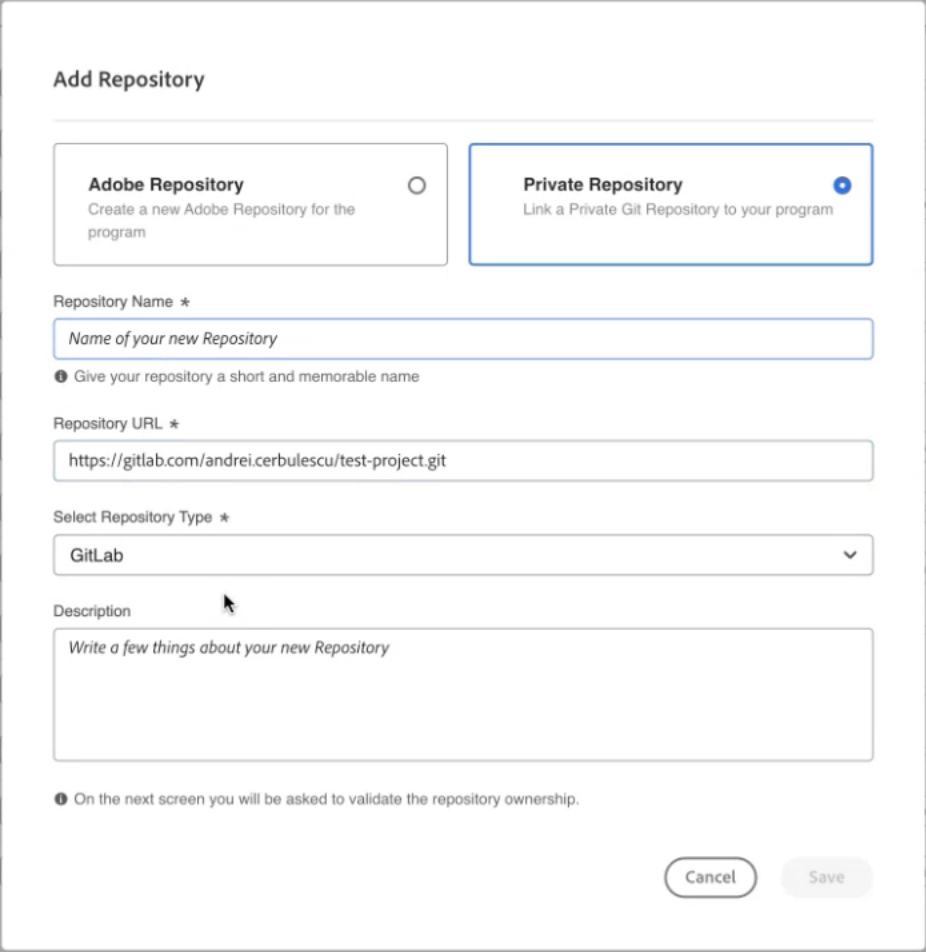
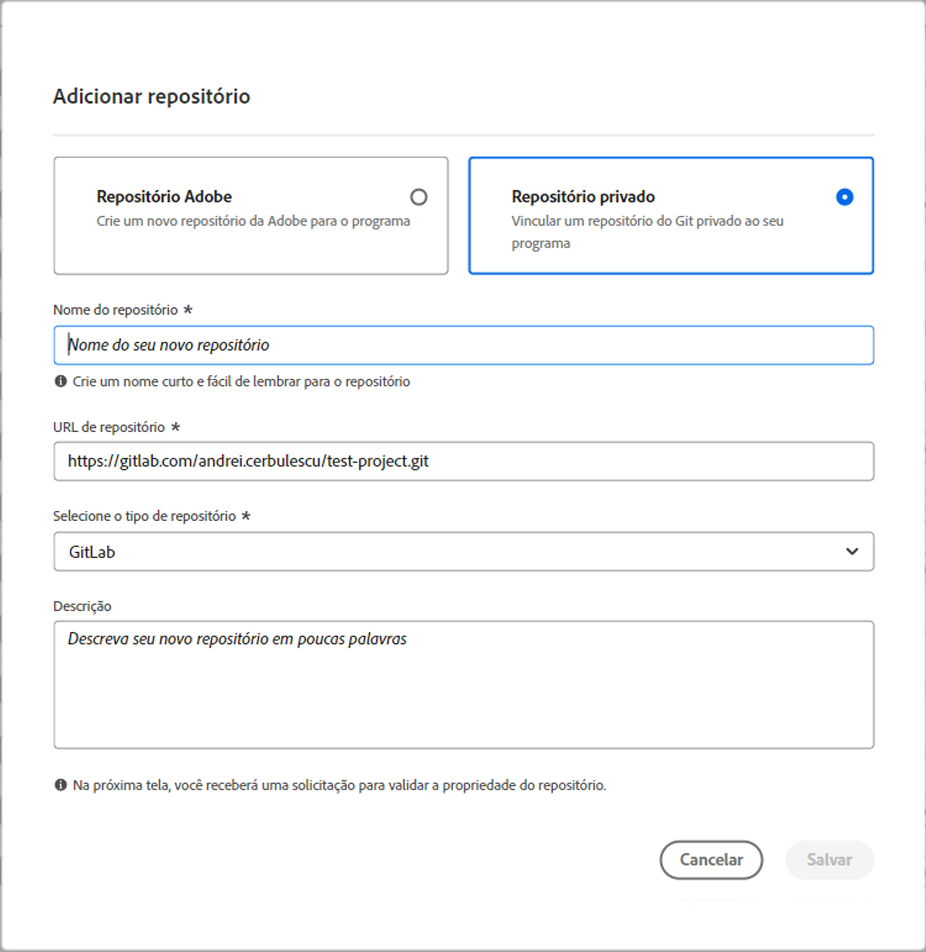
Updated by task 'AUTO_HANDOFF_1728480967227'  Changes for core/source commit https://git.corp.adobe.com/AdobeDocs/experience-manager-cloud-manager.en/commit/593ab468fb09900d061a4d820b8a1a33e2047237

diff --git a/help/managing-code/external-repositories.md b/help/managing-code/external-repositories.md
@@ -1,17 +1,17 @@
 ---
-title: Adicionar repositórios externos no Cloud Manager (adotante antecipado)
-description: Saiba como adicionar um repositório externo ao Cloud Manager. O Cloud Manager oferece suporte à integração com repositórios GitHub, GitLab e Bitbucket.
+title: Adicionar repositórios externos no Cloud Manager (usuários iniciais)
+description: Saiba como adicionar um repositório externo no Cloud Manager. O Cloud Manager oferece suporte à integração com repositórios GitHub, GitLab e Bitbucket.
 source-git-commit: 054c214be3c8c6e8a8bd4691b70ae2098263ef5b
-workflow-type: tm+mt
+workflow-type: ht
 source-wordcount: '740'
-ht-degree: 5%
+ht-degree: 100%
 
 ---
 
 
 # Adicionar repositórios externos no Cloud Manager {#external-repositories}
 
-Saiba como adicionar um repositório externo ao Cloud Manager. O Cloud Manager oferece suporte à integração com repositórios GitHub, GitLab e Bitbucket.
+Saiba como adicionar um repositório externo no Cloud Manager. O Cloud Manager oferece suporte à integração com repositórios GitHub, GitLab e Bitbucket.
 
 >[!NOTE]
 >
@@ -23,10 +23,10 @@ A configuração de um repositório externo no Cloud Manager consiste em três e
 
 1. [Adicionar um repositório externo](#add-external-repo) a um programa selecionado.
 1. Forneça um token de acesso ao repositório externo.
-1. Validar a propriedade do repositório externo.
+1. Valide a propriedade do repositório externo.
 
 
-## Adicionar um repositório externo {#add-ext-repo}
+## Adicione um repositório externo {#add-ext-repo}
 
 1. Faça logon no Cloud Manager, em [my.cloudmanager.adobe.com](https://my.cloudmanager.adobe.com/), e selecione a organização apropriada.
 
@@ -47,32 +47,32 @@ A configuração de um repositório externo no Cloud Manager consiste em três e
 
    | Texto | Descrição |
    | --- | --- |
-   | **Nome do Repositório** | Obrigatório. Um nome expressivo para o novo repositório. |
-   | **URL do repositório** | Obrigatório. O URL do repositório.<br><br> Se você estiver usando um repositório hospedado pelo GitHub, o caminho deverá terminar em `.git`.<br>Por exemplo, *`https://github.com/org-name/repo-name.git`* (o caminho da URL é apenas para fins ilustrativos).<br><br>Se você estiver usando um repositório externo, ele deverá usar o seguinte formato de caminho de URL:<br>`https://git-vendor-name.com/org-name/repo-name.git`<br> ou<br>`https://self-hosted-domain/org-name/repo-name.git`<br>E corresponder ao seu fornecedor de Git. |
-   | **Selecionar tipo de repositório** | Obrigatório. Selecione o tipo de repositório que você está usando: **GitHub**, **GitLab** ou **BitBucket**. Se o caminho do URL do repositório acima incluir o nome do fornecedor do Git, como GitLab ou Bitbucket, o tipo de repositório já estará pré-selecionado para você. |
+   | **Nome do repositório** | Obrigatório. Um nome expressivo para o novo repositório. |
+   | **URL do repositório** | Obrigatório. O URL do repositório.<br><br> Se você estiver usando um repositório hospedado pelo GitHub, o caminho deverá terminar em `.git`.<br>Por exemplo, *`https://github.com/org-name/repo-name.git`* (o caminho do URL é apenas para fins ilustrativos).<br><br>Se você estiver usando um repositório externo, ele deverá usar o seguinte formato de caminho de URL:<br>`https://git-vendor-name.com/org-name/repo-name.git`<br> ou<br>`https://self-hosted-domain/org-name/repo-name.git`<br>e corresponder ao seu fornecedor de Git. |
+   | **Selecionar tipo de repositório** | Obrigatório. Selecione o tipo de repositório que você está usando: **GitHub**, **GitLab** ou **BitBucket**. Se o caminho do URL do repositório acima incluir o nome do fornecedor do Git, como GitLab ou Bitbucket, o tipo de repositório já estará pré-selecionado. |
    | **Descrição** | Opcional. Uma descrição detalhada do repositório. |
 
-1. Selecione **Salvar** para adicionar o repositório.
+1. Clique em **Salvar** para adicionar o repositório.
 
-1. Na caixa de diálogo **Validação de Propriedade de Repositório Privado**, forneça um token de acesso para validar a propriedade do repositório externo para que você possa acessá-lo.
+1. Na caixa de diálogo **Validação de propriedade de repositório privado**, forneça um token de acesso para validar a propriedade do repositório externo para que você possa acessá-lo.
 
-   ![Selecionando um token de acesso existente para um repositório](/help/managing-code/assets/repositories-exisiting-access-token.png)
-   *Selecionando um token de acesso existente para um repositório BitBucket.*
+   ![Seleção de um token de acesso para um repositório](/help/managing-code/assets/repositories-exisiting-access-token.png)
+   *Seleção de um token de acesso para um repositório BitBucket.*
 
    | Tipo de token | Descrição |
    | --- | --- |
-   | **Usar token de acesso existente** | Se você já tiver fornecido um token de acesso ao repositório para sua organização e tiver acesso a vários repositórios, poderá selecionar um token existente. Use a lista suspensa **Nome do token** para escolher o token que deseja aplicar ao repositório. Caso contrário, adicione um novo token de acesso. |
-   | **Adicionar novo token de acesso** | **Tipo de repositório: GitHub**<br>· No campo de texto **Nome do Token**, digite um nome para o token de acesso que você está criando.<br>· Crie um token de acesso pessoal seguindo as instruções na [documentação do GitHub](https://docs.github.com/en/enterprise-server@3.14/authentication/keeping-your-account-and-data-secure/managing-your-personal-access-tokens).<br>· Permissões necessárias:<br>  · `Read access to metadata`.<br>  · `Read and write access to code and pull requests`.<br>· No campo **Token de acesso**, cole o token que você acabou de criar. |
-   |  | **Tipo de repositório: GitLab**<br>· No campo de texto **Nome do token**, digite um nome para o token de acesso que você está criando.<br>· Crie um token de acesso pessoal seguindo as instruções da [documentação do GitLab](https://docs.gitlab.com/ee/user/profile/personal_access_tokens.html).<br>· Permissões necessárias:<br>  · `api`<br>  · `read_api`<br>  · `read_repository`<br>  · `write_repository`<br>· No campo **Token de acesso**, cole o token que você acabou de criar. |
-   |  | **Tipo de repositório: Bitbucket**<br>· No campo de texto **Nome do Token**, digite um nome para o token de acesso que você está criando.<br>· Crie um token de acesso do repositório usando a [documentação do Bitbucket](https://support.atlassian.com/bitbucket-cloud/docs/create-a-repository-access-token/).<br>· Permissões necessárias:<br>  · `Read and write access to code and pull requests`. |
+   | **Usar token de acesso já existente** | Se você já forneceu um token de acesso ao repositório para sua organização e tem acesso a vários repositórios, você pode selecionar um token. Use a lista suspensa **Nome do token** para escolher o token que deseja aplicar ao repositório. Caso contrário, adicione um novo token de acesso. |
+   | **Adicionar novo token de acesso** | **Tipo de repositório: GitHub**<br>• No campo de texto **Nome do token**, digite um nome para o token de acesso que você está criando.<br>• Crie um token de acesso pessoal seguindo as instruções na [documentação do GitHub](https://docs.github.com/en/enterprise-server@3.14/authentication/keeping-your-account-and-data-secure/managing-your-personal-access-tokens).<br>• Permissões necessárias:<br>  • `Read access to metadata`.<br>  • `Read and write access to code and pull requests`.<br>• No campo **Token de acesso**, cole o token que você acabou de criar. |
+   |  | **Tipo de repositório: GitLab**<br>• No campo de texto **Nome do token**, digite um nome para o token de acesso que você está criando.<br>• Crie um token de acesso pessoal seguindo as instruções na [documentação do GitLab](https://docs.gitlab.com/ee/user/profile/personal_access_tokens.html).<br>• Permissões necessárias:<br>  • `api`<br>  • `read_api`<br>  • `read_repository`<br>  • `write_repository`<br>• No campo **Token de acesso**, cole o token que você acabou de criar. |
+   |  | **Tipo de repositório: Bitbucket**<br>• No campo de texto **Nome do token**, digite um nome para o token de acesso que você está criando.<br>• Crie um token de acesso ao repositório usando a [documentação do Bitbucket](https://support.atlassian.com/bitbucket-cloud/docs/create-a-repository-access-token/).<br>• Permissões necessárias:<br>  • `Read and write access to code and pull requests`. |
 
    >[!NOTE]
    >
-   >O recurso **Adicionar novo token de acesso** está atualmente na fase de Primeiros usuários. Funcionalidades adicionais estão sendo planejadas. Como resultado, as permissões necessárias para tokens de acesso podem mudar. Além disso, a interface de usuário para gerenciamento de tokens pode ser atualizada, possivelmente incluindo recursos como datas de expiração de tokens. E verificações automatizadas para garantir que os tokens vinculados aos repositórios permaneçam válidos.
+   >O recurso **Adicionar novo token de acesso** está atualmente na fase de Adoção antecipada. Funcionalidades adicionais estão sendo planejadas. Como resultado, as permissões necessárias para tokens de acesso podem mudar. Além disso, a interface de usuário para gerenciamento de tokens pode ser atualizada, possivelmente incluindo recursos como datas de expiração de tokens. E verificações automatizadas para garantir que os tokens vinculados aos repositórios permaneçam válidos.
 
 1. Clique em **Validar**.
 
-Após a validação, o repositório externo está pronto para ser usado e vinculado a um pipeline.
+Após a validação, o repositório externo estará pronto para ser usado e vinculado a um pipeline.
 
 ## Vincular um repositório externo validado a um pipeline {#validate-ext-repo}
 
@@ -84,7 +84,7 @@ Após a validação, o repositório externo está pronto para ser usado e vincul
    ![Repositório de código-fonte do pipeline e ramificação Git](/help/managing-code/assets/pipeline-repo-gitbranch.png)
    *Caixa de diálogo Adicionar pipeline de não produção com o repositório selecionado e a ramificação Git,*
 
-1. Ao adicionar ou editar um pipeline, para especificar o local do **Código Source** para seu pipeline novo ou existente, escolha o repositório externo que deseja usar na lista suspensa **Repositório**.
+1. Ao adicionar ou editar um pipeline, para especificar o local do **Código-fonte** para seu pipeline novo ou já existente, escolha o repositório externo que deseja usar na lista suspensa **Repositório**.
 
 1. Na lista suspensa **Ramificação Git**, selecione a ramificação como a origem do pipeline.
 
@@ -98,5 +98,5 @@ Após a validação, o repositório externo está pronto para ser usado e vincul
 
 ## Limitações
 
-* Repositórios externos não podem ser vinculados aos pipelines de Configuração.
-* Pipelines usando repositórios externos (excluindo repositórios hospedados pelo GitHub) e a **opção[!UICONTROL ** Acionador de implantação **em Alterações do Git**], os acionadores não são iniciados automaticamente. Eles devem ser iniciados manualmente.
+* Repositórios externos não podem ser vinculados aos Pipelines de configuração.
+* Para pipelines que usam repositórios externos (excluindo repositórios hospedados no GitHub) e a opção **Acionador de implantação** [!UICONTROL **Sobre alterações do Git**], os acionadores não são iniciados automaticamente. Eles devem ser iniciados manualmente.

diff --git a/help/release-notes/current.md b/help/release-notes/current.md
@@ -3,9 +3,9 @@ title: Notas de versão do Cloud Manager 2024.10.0
 description: Estas são as notas de versão do Cloud Manager 2024.10.0.
 feature: Release Information
 source-git-commit: 74e8f7c0f3896e0e33a02b62c003db322c0d50d8
-workflow-type: tm+mt
+workflow-type: ht
 source-wordcount: '369'
-ht-degree: 27%
+ht-degree: 100%
 
 ---
 
@@ -23,30 +23,30 @@ Esta página documenta as notas de versão do [!UICONTROL Cloud Manager] 2024.
 
 <!-- SAVE FOR FUTURE POSSIBLE USE No notable bugs or features for the September release of Cloud Manager. -->
 
-A data de lançamento do [!UICONTROL Cloud Manager] 2024.10.0 é 3 de outubro de 2024.
+A data de lançamento do [!UICONTROL Cloud Manager] 2024.10.0 é 3 de outubro de 2024.
 
-A próxima versão está planejada para sexta-feira, 14 de novembro de 2024.
+A próxima versão está planejada para 14 de novembro de 2024.
 
 
 
 ## Novidades {#what-is-new}
 
-* <!-- BOTH CS & AMS --> A versão do Arquétipo AEM usada no Cloud Manager foi atualizada para a versão 26. Ver [https://github.com/adobe/aem-project-archetype/releases](https://github.com/adobe/aem-project-archetype/releases)
+* <!-- BOTH CS & AMS --> A versão do Arquétipo do AEM usada no Cloud Manager foi atualizada para a versão 26. Acesse [https://github.com/adobe/aem-project-archetype/releases](https://github.com/adobe/aem-project-archetype/releases)
 <!-- (CMGR-59817) -->
 
 
 
 ## Programa de adoção antecipada {#early-adoption}
 
-Faça parte do programa de adoção antecipada da Cloud Manager e tenha a chance de testar os recursos futuros.
+Faça parte do programa de adoção antecipada do Cloud Manager e aproveite a oportunidade de testar alguns dos próximos recursos.
 
-### Traga seu próprio Git - agora com suporte para GitLab e Bitbucket {#gitlab-bitbucket}
+### Traga seu próprio Git: agora com suporte para GitLab e Bitbucket {#gitlab-bitbucket}
 
 <!-- BOTH CS & AMS -->
 
-O recurso **Traga seu próprio Git** foi expandido para incluir suporte para repositórios externos, como GitLab e Bitbucket. Esse novo suporte é uma adição ao suporte já existente para repositórios GitHub privados e corporativos. Ao adicionar esses novos repositórios, você também pode vinculá-los diretamente aos seus pipelines. Você pode hospedar esses repositórios em plataformas de nuvem pública ou em sua infraestrutura ou nuvem privada. Essa integração também elimina a necessidade de sincronização constante do código com o repositório Adobe e oferece a capacidade de validar solicitações de pull antes de mesclá-las em uma ramificação principal.
+O recurso **Traga seu próprio Git** foi expandido para incluir suporte para repositórios externos, como GitLab e Bitbucket. Esse novo suporte é uma adição ao suporte já existente para repositórios GitHub privados e empresariais. Ao adicionar esses novos repositórios, também é possível vinculá-los diretamente aos seus pipelines. Você pode hospedar esses repositórios em plataformas de nuvem pública ou em sua infraestrutura ou nuvem privada. Essa integração também elimina a necessidade de sincronização constante do código com o repositório da Adobe e oferece a capacidade de validar solicitações de pull antes de mesclá-las em uma ramificação principal.
 
-Consulte [Adicionar repositórios externos no Cloud Manager](/help/managing-code/external-repositories.md).
+Consulte [Adicionar repositórios externos no Cloud Manager](/help/managing-code/external-repositories.md).
 
 ![Caixa de diálogo Adicionar repositório](/help/release-notes/assets/repositories-add-release-notes.png)
 
@@ -54,13 +54,13 @@ Consulte [Adicionar repositórios externos no Cloud Manager](/help/managing-code
 >
 >Atualmente, as verificações de qualidade do código de solicitação de pull prontas para uso são exclusivas de repositórios hospedados no GitHub, mas uma atualização para estender essa funcionalidade a outros fornecedores Git está em andamento.
 
-Se você estiver interessado em testar este novo recurso e compartilhar seus comentários, envie um email para [Grp-CloudManager_BYOG@adobe.com](mailto:Grp-CloudManager_BYOG@adobe.com) com seu endereço de email associado à sua Adobe ID. Certifique-se de incluir qual plataforma Git deseja usar e se você está em uma estrutura de repositório privado/público ou corporativo.
+Se tiver interesse em testar esse novo recurso e compartilhar o seu feedback, envie um email para [Grp-CloudManager_BYOG@adobe.com](mailto:Grp-CloudManager_BYOG@adobe.com) do seu endereço de email associado à sua Adobe ID. Inclua qual plataforma Git deseja usar e se você está em uma estrutura de repositório privado/público ou empresarial.
 
 ### Pipelines somente de preparo e somente de produção {#staging-production-only-pipelines}
 
-Adobe anuncia a introdução do suporte para [pipelines somente de preparo e somente de produção](/help/using/stage-prod-only.md). Esse novo recurso permite dividir os pipelines de implantação de produção de pilha completa em implantações menores e mais especializadas.
+A Adobe anuncia a introdução do suporte para [pipelines somente de preparo e somente de produção](/help/using/stage-prod-only.md). Esse novo recurso permite dividir os pipelines de implantação de produção de pilha completa em implantações menores e mais especializadas.
 
-Se você quiser testar este recurso e fornecer feedback, envie um email para [Grp-cloudmanager_splitpipelines@adobe.com](mailto:Grp-cloudmanager_splitpipelines@adobe.com) com seu endereço de email associado à sua Adobe ID.
+Se você quiser testar esse recurso e fornecer feedback, envie um email para [Grp-cloudmanager_splitpipelines@adobe.com](mailto:Grp-cloudmanager_splitpipelines@adobe.com) do seu endereço de email associado à sua Adobe ID.
 
 <!-- ## Bug fixes
 

diff --git a/help/using/managing-pipelines.md b/help/using/managing-pipelines.md
@@ -1,18 +1,18 @@
 ---
 title: Gerenciar pipelines
-description: Saiba como gerenciar seus pipelines existentes, incluindo execução, edição e exclusão.
+description: Saiba como gerenciar os pipelines, incluindo sua execução, edição e exclusão.
 exl-id: e36420d2-57c5-4375-99fb-dd47c1c8bffd
 source-git-commit: 9d910e1b1a4aad000a8389ddc22ce380bbccd4ef
-workflow-type: tm+mt
+workflow-type: ht
 source-wordcount: '840'
-ht-degree: 89%
+ht-degree: 100%
 
 ---
 
 
 # Gerenciar pipelines {#managing-pipelines}
 
-Saiba como gerenciar seus pipelines existentes, incluindo execução, edição e exclusão.
+Saiba como gerenciar os pipelines, incluindo sua execução, edição e exclusão.
 
 ## Cartão do pipeline {#pipeline-card}
 
@@ -36,11 +36,11 @@ Na parte inferior da lista de pipelines, você tem as seguintes opções gerais.
 
 ## Página Pipelines {#pipelines}
 
-A página **Pipelines** mostra uma lista completa de todos os pipelines do programa selecionado. Esta lista é útil porque apresenta informações mais abrangentes que as disponíveis no [cartão do pipeline](#pipeline-card).
+A página **Pipelines** mostra uma lista completa de todos os pipelines do programa selecionado. Esta lista é útil porque apresenta informações mais abrangentes que as disponíveis no [cartão do pipeline](#pipeline-card).
 
 1. Faça logon no Cloud Manager em [my.cloudmanager.adobe.com](https://my.cloudmanager.adobe.com/) e selecione a organização e o programa apropriados.
 
-1. Na página **Visão geral do programa**, clique na guia **Pipelines** para alternar para a página **Pipelines**.
+1. Na página **Visão geral do programa**, clique na guia **Pipelines** para alternar para a página **Pipelines**.
 
 1. Nessa janela você pode ver uma lista de todos os pipelines do programa, bem como iniciar e parar a execução do pipeline, assim como no **cartão do pipeline**.
 
@@ -52,11 +52,11 @@ Clicar em **Exibir detalhes** mostrará os [detalhes da execução do pipeline](
 
 ## Página Atividade {#activity}
 
-A página **Atividades** mostra uma lista completa de todas as execuções de pipelines para o programa selecionado.
+A página **Atividades** mostra uma lista completa de todas as execuções de pipelines do programa selecionado.
 
 1. Faça logon no Cloud Manager em [my.cloudmanager.adobe.com](https://my.cloudmanager.adobe.com/) e selecione a organização e o programa apropriados.
 
-1. Na página **Visão geral do programa**, clique na guia **Atividade** para alternar para a página **Atividade**.
+1. Na página **Visão geral do programa**, clique na guia **Atividade** para alternar para a página **Atividade**.
 
 1. Aqui você pode ver uma lista de todas as execuções de pipeline do programa, incluindo as execuções atuais e históricas.
 

diff --git a/help/main-toc/TOC.md b/help/main-toc/TOC.md
@@ -8,9 +8,9 @@ feature-set: Experience Manager Cloud Manager, Experience Manager
 feature: Cloud Manager
 role: Admin
 source-git-commit: 1209faf71edbd74cd87acfe24ec438b98ddd4a3a
-workflow-type: tm+mt
+workflow-type: ht
 source-wordcount: '342'
-ht-degree: 63%
+ht-degree: 100%
 
 ---
 
@@ -46,7 +46,7 @@ ht-degree: 63%
    + Pipelines de CI/CD {#pipelines}
       + [Configurar um pipeline de produção](/help/using/production-pipelines.md)
       + [Configurar um pipeline de não produção](/help/using/non-production-pipelines.md)
-      + [Pipelines de divisão de preparo e produção somente (usuários iniciais)](/help/using/stage-prod-only.md)
+      + [Dividir pipelines somente de preparo e somente de produção (usuários iniciais)](/help/using/stage-prod-only.md)
       + [Gerenciar pipelines](/help/using/managing-pipelines.md)
    + [Implantação do código](/help/using/code-deployment.md)
    + [Teste de qualidade do código](/help/using/code-quality-testing.md)
@@ -57,12 +57,12 @@ ht-degree: 63%
    + [Notificações](/help/using/notifications.md)
    + [Regras de qualidade do código personalizado](/help/using/custom-code-quality-rules.md)
    + [Cópia de conteúdo](/help/using/content-copy.md)
-+ Gerenciar Código {#managing-code}
++ Gerenciar código {#managing-code}
    + [Gerenciar repositórios no Cloud Manager](/help/managing-code/managing-repositories.md)
    + [Informações de acesso do repositório ](/help/managing-code/accessing-repositories.md)
-   + [Adicionar um repositório de Adobe](/help/managing-code/adobe-repositories.md)
+   + [Adicionar um repositório da Adobe](/help/managing-code/adobe-repositories.md)
    + [Adicionar um repositório privado](/help/managing-code/private-repositories.md)
-   + [Adicionar um repositório externo (Usuário inicial)](/help/managing-code/external-repositories.md)
+   + [Adicionar um repositório externo (usuários iniciais)](/help/managing-code/external-repositories.md)
    + [Suporte ao submódulo Git](/help/managing-code/git-submodules.md)
    + [Configuração de verificação do GitHub](/help/managing-code/github-check-config.md)
    + [Anotações de verificação do GitHub](/help/managing-code/github-annotations.md)

diff --git a/help/managing-code/private-repositories.md b/help/managing-code/private-repositories.md
@@ -4,9 +4,9 @@ description: Saiba como configurar o Cloud Manager para trabalhar com os seus re
 feature: Release Information
 exl-id: e0d103c9-c147-4040-bf53-835e93d78a0b
 source-git-commit: 5090d7ee9a6742d71122acda9901d074bc254305
-workflow-type: tm+mt
+workflow-type: ht
 source-wordcount: '818'
-ht-degree: 96%
+ht-degree: 100%
 
 ---
 
@@ -124,7 +124,7 @@ Quando a solicitação de “pull” é fechada ou mesclada, o pipeline de quali
 
 ## Associação de repositórios privados a pipelines {#pipelines}
 
-Repositórios privados validados podem ser associados a [pipelines de pilha completa e front-end](/help/overview/ci-cd-pipelines.md).
+Repositórios privados validados podem ser associados a [pipelines de pilha completa e front-end](/help/overview/ci-cd-pipelines.md).
 
 
 

diff --git a/help/managing-code/accessing-repositories.md b/help/managing-code/accessing-repositories.md
@@ -3,7 +3,7 @@ title: Informações de acesso do repositório
 description: Saiba como acessar e gerenciar os repositórios Git gerenciado pela Adobe usando o gerenciamento de conta Git por autoatendimento do Cloud Manager.
 exl-id: 1cc88c82-67c7-4553-a1b8-d2ab22be466c
 source-git-commit: 04fbc4a3fdba8b108055d66a4fdb1a31994cb18e
-workflow-type: tm+mt
+workflow-type: ht
 source-wordcount: '381'
 ht-degree: 100%
 

diff --git a/help/using/non-production-pipelines.md b/help/using/non-production-pipelines.md
@@ -3,9 +3,9 @@ title: Adicionar um pipeline de não produção
 description: Saiba como usar o Cloud Manager para criar e configurar pipelines de não produção para implantar seu código.
 exl-id: ccf4b4a2-6e29-4ede-821c-36318b568e5c
 source-git-commit: 1209faf71edbd74cd87acfe24ec438b98ddd4a3a
-workflow-type: tm+mt
+workflow-type: ht
 source-wordcount: '688'
-ht-degree: 98%
+ht-degree: 100%
 
 ---
 

diff --git a/help/using/production-pipelines.md b/help/using/production-pipelines.md
@@ -3,9 +3,9 @@ title: Adicionar um pipeline de produção
 description: Saiba como usar o Cloud Manager para criar e configurar pipelines de produção para implantar seu código.
 exl-id: d489fa3c-df1e-480b-82d0-ac8cce78a710
 source-git-commit: 1209faf71edbd74cd87acfe24ec438b98ddd4a3a
-workflow-type: tm+mt
+workflow-type: ht
 source-wordcount: '1249'
-ht-degree: 99%
+ht-degree: 100%
 
 ---
 

diff --git a/help/release-notes/2024/2024-9-0.md b/help/release-notes/2024/2024-9-0.md
@@ -3,7 +3,7 @@ title: Notas de versão do Cloud Manager 2024.9.0
 description: Estas são as notas de versão do Cloud Manager 2024.9.0.
 feature: Release Information
 source-git-commit: 9d910e1b1a4aad000a8389ddc22ce380bbccd4ef
-workflow-type: tm+mt
+workflow-type: ht
 source-wordcount: '184'
 ht-degree: 100%
 
